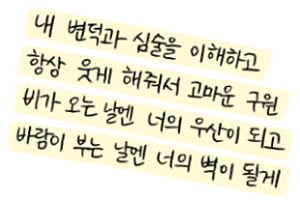
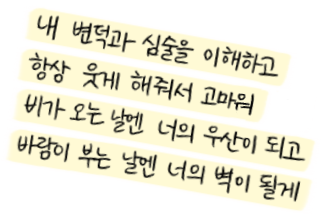
로딩화면 수정, 일본어 추가

diff --git a/src/components/sections/CalendarSection.vue b/src/components/sections/CalendarSection.vue
@@ -13,6 +13,13 @@ const props = defineProps<{
   highlightedDay: number
   ceremonyTimeShort: string
   countdownHeadline: string
+  /** 카운트다운 단위 라벨 — 로케일별로 다른 텍스트 (예: 한국어 '일/시간/분/초', 일본어 '日/時間/分/秒') */
+  countdownUnits: {
+    days: string
+    hours: string
+    minutes: string
+    seconds: string
+  }
 }>()
 
 const grid = computed(() =>
@@ -70,13 +77,13 @@ const { parts } = useCountdown(props.weddingIso)
       </template>
       <p v-else class="dday__value">
         <span class="dday__num">{{ parts.days }}</span
-        ><span class="dday__unit">일</span>
+        ><span class="dday__unit">{{ countdownUnits.days }}</span>
         <span class="dday__num">{{ parts.hours }}</span
-        ><span class="dday__unit">시간</span>
+        ><span class="dday__unit">{{ countdownUnits.hours }}</span>
         <span class="dday__num">{{ parts.minutes }}</span
-        ><span class="dday__unit">분</span>
+        ><span class="dday__unit">{{ countdownUnits.minutes }}</span>
         <span class="dday__num">{{ parts.seconds }}</span
-        ><span class="dday__unit">초</span>
+        ><span class="dday__unit">{{ countdownUnits.seconds }}</span>
       </p>
     </div>
   </section>

diff --git a/src/mocks/wedding.mock.jp.ts b/src/mocks/wedding.mock.jp.ts
@@ -6,6 +6,11 @@ export const WEDDING_EVENT_ISO = '2026-08-16T15:30:00+09:00'
 export const posterSection = {
   imageUrl: ASSET_URLS.poster,
   titleLines: ['We\'re Getting', 'Married!'],
+  /** 포스터 상단 양옆 이름 위 역할 라벨 — 로케일별로 다른 텍스트 */
+  roleLabels: {
+    groom: '新郎',
+    bride: '新婦',
+  },
 }
 
 export const ceremonySection = {
@@ -67,7 +72,7 @@ export const profileSection = {
       photoUrl: ASSET_URLS.profileBride,
       alt: '新婦の幼少期の写真',
       description:
-        '1991年3月 始興生まれ\nちょっと怠け者の完璧主義者\nサバイバル運動を頑張るウェブ開発者',
+        '1991年3月 安山・始興育ち\nちょっと怠け者の完璧主義者\nサバイバル運動を頑張るウェブ開発者',
     },
   ],
 }
@@ -201,12 +206,12 @@ export const timelineSection = {
       alt: '運動',
     },
     {
-      text: '私たちの人生の旅行先は沖縄!天気も日程も食事も海も、すべてが完璧。また行きたいなぁ〜',
+      text: '私たちの人生の旅行先は沖縄!天気も日程も食事も海も、すべてが完璧だった。',
       photoUrl: ASSET_URLS.timeline3,
       alt: '旅行',
     },
     {
-      text: '新婦は感性的で調和を大切にするENFJ、新郎は思考的だけど柔軟なENTP。最高のカップル!',
+      text: '新婦は感性的で調和を大切にするENFJ、新郎は思考的だけど柔軟なENTP。なかなかいいじゃん!',
       photoUrl: ASSET_URLS.timeline4,
       alt: '最高の組み合わせ',
     },

diff --git a/src/components/sections/PosterSection.vue b/src/components/sections/PosterSection.vue
@@ -10,6 +10,11 @@ withDefaults(
     brideName?: string
     dateLabel: string
     venueName: string
+    /** 신랑/신부 역할 라벨 — 로케일별로 다른 텍스트 (예: 한국어 '신랑/신부', 일본어 '新郎/新婦') */
+    roleLabels: {
+      groom: string
+      bride: string
+    }
   }>(),
   {
     play: false,
@@ -27,11 +32,11 @@ withDefaults(
       <!-- 포스터 상단 양옆 이름 헤더 -->
       <div v-if="groomName || brideName" class="poster__names">
         <span class="poster__names-side poster__names-side--left">
-          <span class="poster__names-role">신랑</span>
+          <span class="poster__names-role">{{ roleLabels.groom }}</span>
           <span class="poster__names-given">{{ groomName }}</span>
         </span>
         <span class="poster__names-side poster__names-side--right">
-          <span class="poster__names-role">신부</span>
+          <span class="poster__names-role">{{ roleLabels.bride }}</span>
           <span class="poster__names-given">{{ brideName }}</span>
         </span>
       </div>

diff --git a/src/components/sections/TimelineSection.vue b/src/components/sections/TimelineSection.vue
@@ -15,6 +15,11 @@ const props = defineProps<{
   /** 두 사람이 처음 만난 날 (ISO: YYYY-MM-DD) — 디데이 계산용 */
   meetSinceIso?: string
   ddayLabel?: string
+  /** 함께한 시간 단위 라벨 — 로케일별로 다른 텍스트 (예: 한국어 '년/일', 일본어 '年/日') */
+  sinceUnits: {
+    years: string
+    days: string
+  }
 }>()
 
 const { el, revealed } = useReveal({ threshold: 0.2 })
@@ -69,9 +74,9 @@ const sinceParts = computed(() => {
       <p v-if="ddayLabel" class="dday__label">{{ ddayLabel }}</p>
       <p class="dday__value">
         <span class="dday__num">{{ sinceParts.years }}</span
-        ><span class="dday__unit">년</span>
+        ><span class="dday__unit">{{ sinceUnits.years }}</span>
         <span class="dday__num">{{ sinceParts.days }}</span
-        ><span class="dday__unit">일</span>
+        ><span class="dday__unit">{{ sinceUnits.days }}</span>
       </p>
     </div>
 

diff --git a/src/mocks/wedding.mock.ts b/src/mocks/wedding.mock.ts
@@ -7,6 +7,11 @@ export const posterSection = {
   imageUrl: ASSET_URLS.poster,
   /** 스크립트 히어로 — 두 줄 권장 */
   titleLines: ['We\'re Getting', 'Married!'],
+  /** 포스터 상단 양옆 이름 위 역할 라벨 — 로케일별로 다른 텍스트 */
+  roleLabels: {
+    groom: '신랑',
+    bride: '신부',
+  },
 }
 
 export const ceremonySection = {
@@ -63,7 +68,7 @@ export const profileSection = {
       name: '유민선',
       photoUrl: ASSET_URLS.profileBride,
       alt: '신부 어린 시절 사진',
-      description: '1991년 3월생 시흥 출신\n조금 게으른 완벽주의자\n생존운동 열심히 하는 웹개발자',
+      description: '1991년 3월생 안산\/시흥 출신\n조금 게으른 완벽주의자\n생존운동 열심히 하는 웹개발자',
     },
   ],
 }

diff --git a/src/App.vue b/src/App.vue
@@ -72,6 +72,7 @@ function handleLoadingDone() {
         :title-lines="posterSection.titleLines"
         :groom-name="couplesSection.groom.givenName"
         :bride-name="couplesSection.bride.givenName"
+        :role-labels="posterSection.roleLabels"
         :play="!isLoading"
         :date-label="ceremonySection.dateLabel"
         :venue-name="ceremonySection.venueName"
@@ -97,7 +98,8 @@ function handleLoadingDone() {
             :title="timelineSection.title"
             :items="timelineSection.items"
             :meet-since-iso="calendarSection.meetSinceIso"
-            :dday-label="calendarSection.ddayHeadline" />
+            :dday-label="calendarSection.ddayHeadline"
+            :since-units="timelineSection.sinceUnits" />
 
         <CalendarSection
           :title="calendarSection.title"
@@ -109,6 +111,7 @@ function handleLoadingDone() {
           :highlighted-day="calendarSection.highlightedDay"
           :ceremony-time-short="calendarSection.ceremonyTimeShort"
           :countdown-headline="calendarSection.countdownHeadline"
+          :countdown-units="calendarSection.countdownUnits"
         />
 
         <LocationSection v-bind="locationSection" />